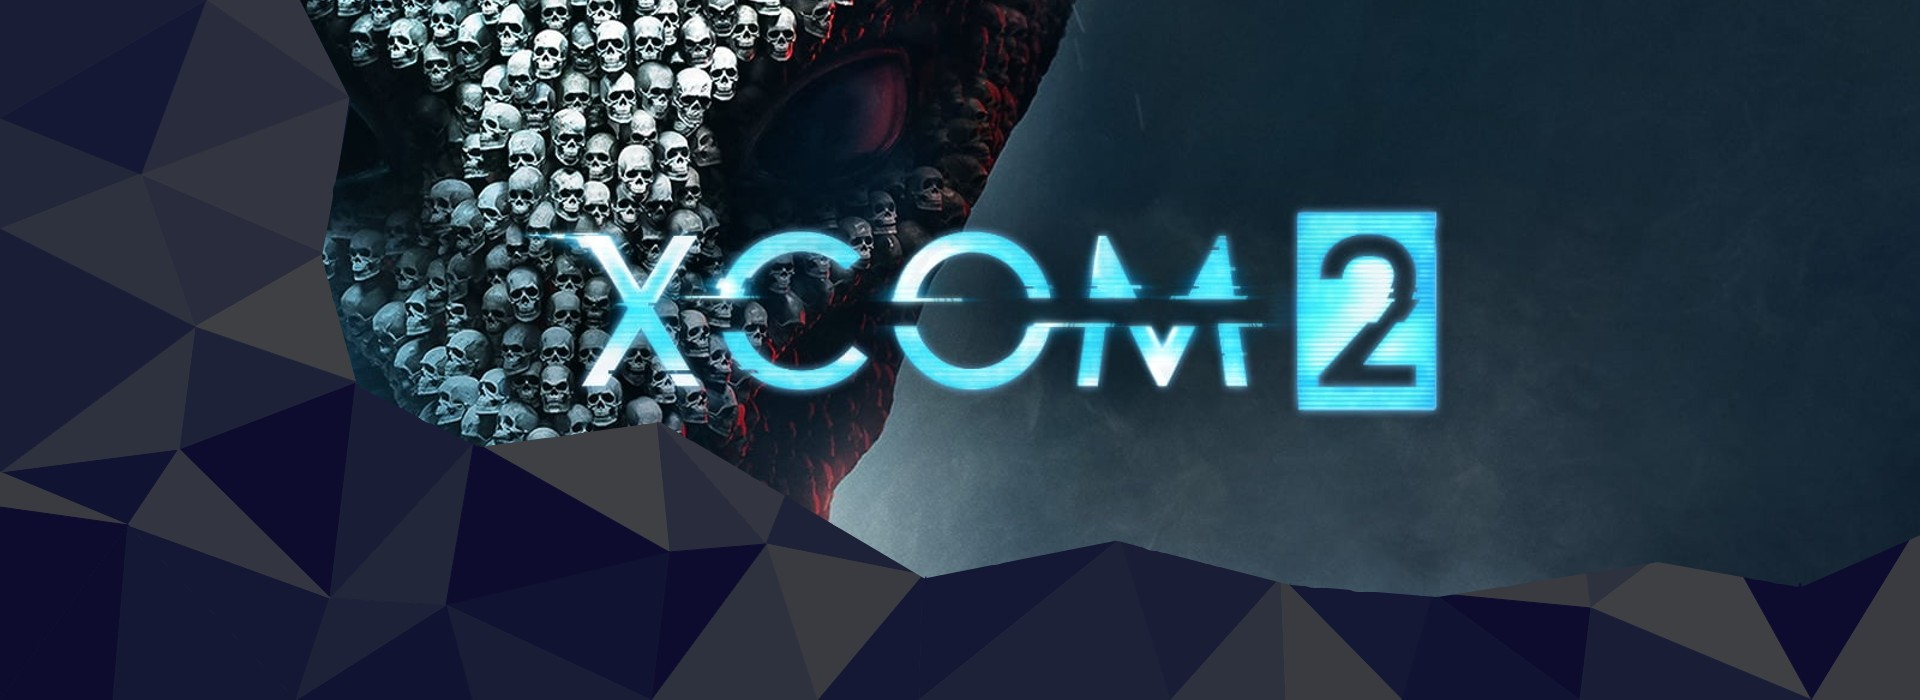
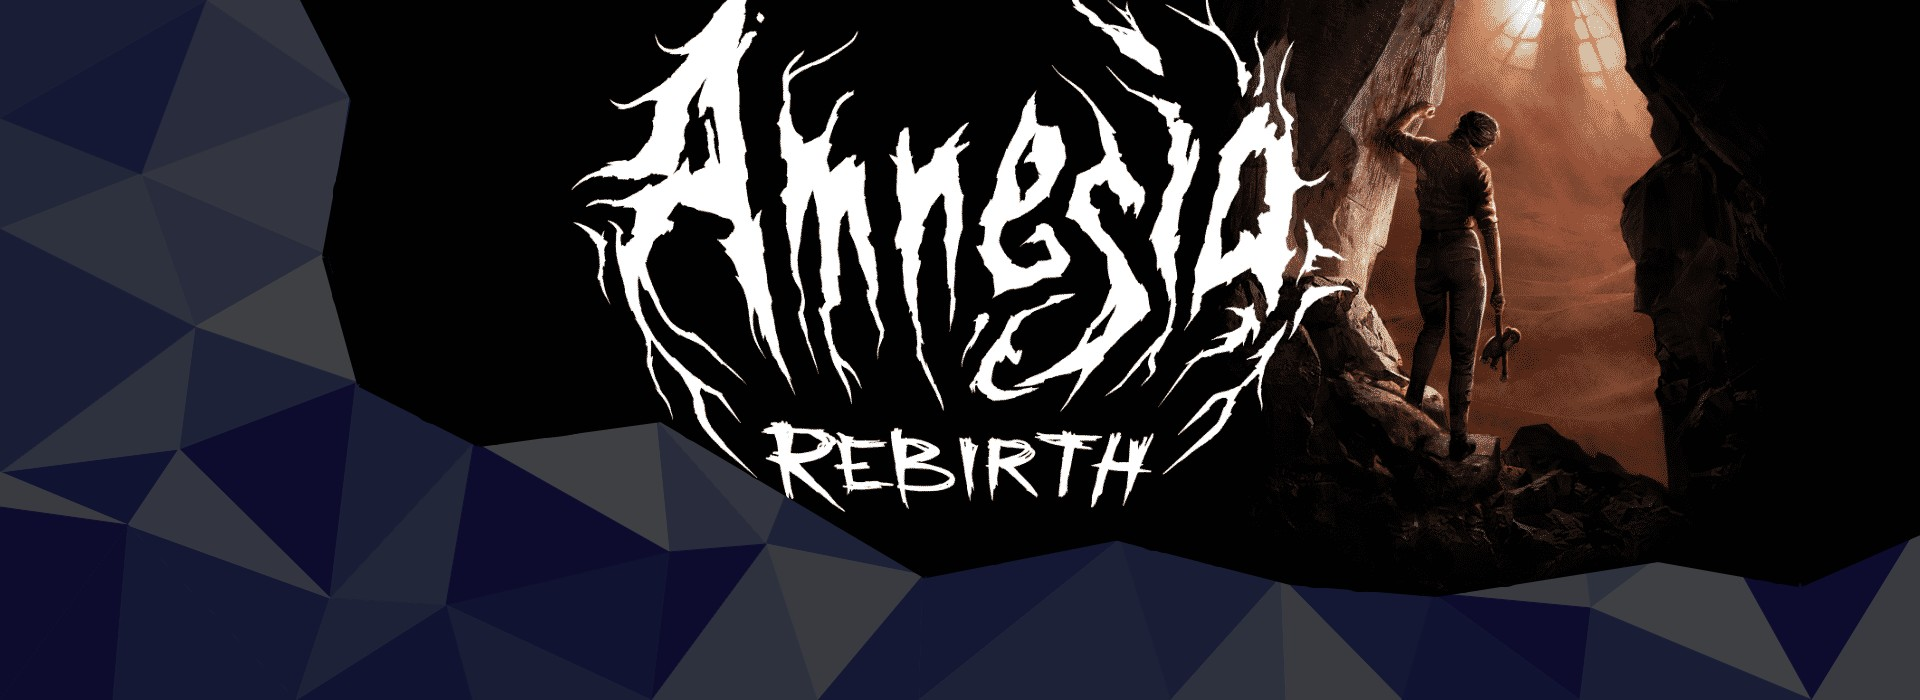
actualizacion 21/4

diff --git a/index.html b/index.html
@@ -61,14 +61,14 @@
                         <div class="carousel-caption d-md-block">
                             <h3 class="text-tipo2">Epic Games</h3>
                             <p class="text-tipo2">Descarga tu juego gratis de esta semana</p>
-                            <a href="https://store.epicgames.com/es-MX/p/xcom-2" target="_blank"><button class="boton">Consiguelo</button></a>
+                            <a href="https://store.epicgames.com/es-MX/p/amnesia-rebirth" target="_blank"><button class="boton">Consiguelo</button></a>
                         </div>
                     </div>
                     <div class="carousel-item mislider">
                         <img src="multimedia/images/slider/slider1.jpg" class="d-block w-100" alt="">
                         <div class="carousel-caption d-md-block">
-                            <h3 class="text-tipo2">Darksiders 3</h3>
-                            <p class="text-tipo2">Nuevos videos: Furia derrotando los pecados </p>
+                            <h3 class="text-tipo2">Hellblade Senua's Sacrifice</h3>
+                            <p class="text-tipo2">Nuevos videos: Senua en su locura</p>
                             <a href="pages/guias.html"><button class="boton">Ver videos</button></a>
                         </div>
                     </div>          
@@ -92,8 +92,8 @@
                         <img src="multimedia/images/slider/slider5.jpg" class="d-block w-100" alt="imagen carrusel">
                         <div class="carousel-caption d-md-block">
                             <h3 class="text-tipo2">Recomendacion</h3>
-                            <p class="text-tipo2">Call of Duty: Black Ops 3<br>67% off hasta el 21/4</p>
-                            <a href="https://store.steampowered.com/app/311210/Call_of_Duty_Black_Ops_III/" target="_blank"><button class="boton">Compralo</button></a>
+                            <p class="text-tipo2">The witcher 3: Wild hunt<br>80% off hasta el 2/5</p>
+                            <a href="https://store.steampowered.com/sub/124923/" target="_blank"><button class="boton">Compralo</button></a>
                         </div>
                     </div>
                 </div>
@@ -113,31 +113,31 @@
             <h2 class="sub_title text-tipo1">Ultimas noticias</h2>
             <div class="info_1 fondo">
                 <div>                
-                    <h3 class="texto_h3 titulo_info1">No man's sky: Outlaws</h3>
-                    <p class="texto_p parrafo_info1">Hello Games ha anunciado la 19° actualización gratuita para No Man's Sky, su ambicioso juego de exploración espacial al que no paran de añadir nuevo contenido, en Outlaws se han querido centrar en un nuevo sistema de forajidos, piratas espaciales, escuadrones, nuevas naves y mejoras en el combate espacial.</p>
+                    <h3 class="texto_h3 titulo_info1">Moto GP 22</h3>
+                    <p class="texto_p parrafo_info1">Este 21 de abril se lanza a la venta el que probablemente sea el mejor juego de conduccion de motos. Moto GP 22 se ha enfocado demasiado en el apartado grafico mostrando a los jugadores el mayor grado de realizmo posible. <br> Aqui te dejamos su trailer</p>
                 </div> 
                 <div> 
-                    <iframe width="560" height="315" src="https://www.youtube.com/embed/NHLQBc9u5RE" title="YouTube video player" frameborder="0" allow="accelerometer; autoplay; clipboard-write; encrypted-media; gyroscope; picture-in-picture" allowfullscreen></iframe>
+                    <iframe width="560" height="315" src="https://www.youtube.com/embed/kkami8prCjI" title="YouTube video player" frameborder="0" allow="accelerometer; autoplay; clipboard-write; encrypted-media; gyroscope; picture-in-picture" allowfullscreen></iframe>
                 </div> 
             </div>
 
             <div class="info_2 fondo">
                 <div class="video_2">
-                    <iframe width="560" height="315" src="https://www.youtube.com/embed/fRIIjV-oZTA" title="YouTube video player" frameborder="0" allow="accelerometer; autoplay; clipboard-write; encrypted-media; gyroscope; picture-in-picture" allowfullscreen></iframe>
+                    <iframe width="560" height="315" src="https://www.youtube.com/embed/RjwcbF_ohoE" title="YouTube video player" frameborder="0" allow="accelerometer; autoplay; clipboard-write; encrypted-media; gyroscope; picture-in-picture" allowfullscreen></iframe>
                 </div>
                 <div>
-                    <h3 class="texto_h3 titulo_info2">Capcom Fighting Collection</h3>
-                    <p class="texto_p parrafo_info2">Capcom Fighting Collection es una colección con 10 videojuegos de lucha clásicos de Capcom que se lanzará el 24 de junio para PC (Steam), PS4, Xbox One y Nintendo Switch permitiéndonos disfrutar de títulos como Street Fighter 2 o Darkstalkers.</p>  
+                    <h3 class="texto_h3 titulo_info2">Way of the hunter</h3>
+                    <p class="texto_p parrafo_info2">Si lo tuyo son los juegos de caceria no puedes perderte de este titulo en el cual puedes explorar vastos territorios de caza abiertos en América y Europa, experimenta armas realistas y descubre docenas de especies animales diferentes, solo o junto con un amigo.</p>  
                 </div>    
             </div>
 
             <div class="info_1 fondo">
                 <div>                
-                    <h3 class="texto_h3 titulo_info1">Teamfight Tactics</h3>
-                    <p class="texto_p parrafo_info1">Este 29 de abril llega el campeonato mundial de TFT y conocemos cual es el formato en el cual se llevara a cabo la mayor competencia de este gran juego de estrategias con un premio de u$s 300.000</p>
+                    <h3 class="texto_h3 titulo_info1">Sonic Origins</h3>
+                    <p class="texto_p parrafo_info1">Sonic Origins es anunciado oficialmente: el recopilatorio de las aventuras clásicas de Sonic llegará en junio. Se trata de la mejor forma de conocer las raíces de Sonic en el mundo de los videojuegos con las versiones remasterizadas de cuatro de sus primeros títulos: Sonic the Hedgehog, Sonic the Hedgehog 2, Sonic 3 & Knuckles y Sonic CD. Además, todos ellos ofrecerán la posibilidad de jugar como Sonic, Tails y Knuckles.</p>
                 </div> 
                 <div> 
-                    <iframe width="560" height="315" src="https://www.youtube.com/embed/_4ozeUbZSCM" title="YouTube video player" frameborder="0" allow="accelerometer; autoplay; clipboard-write; encrypted-media; gyroscope; picture-in-picture" allowfullscreen></iframe>
+                    <iframe width="560" height="315" src="https://www.youtube.com/embed/G5E6GC3ieM0" title="YouTube video player" frameborder="0" allow="accelerometer; autoplay; clipboard-write; encrypted-media; gyroscope; picture-in-picture" allowfullscreen></iframe>
                 </div> 
             </div>
         </section>

diff --git a/pages/guias.html b/pages/guias.html
@@ -50,15 +50,32 @@
         </div>
         <section class="guide">
             <div>
+                <h2 class="nombre_juego">Hellblade Senua's Sacrifice</h2>
+                <div class="guideGalery">
+                    <div>
+                        <h3 class="texto_h3">Senua se enfrenta a Surur</h3>
+                        <iframe width="460" height="275" src="https://www.youtube.com/embed/yIfUrRzM7vE" title="YouTube video player" frameborder="0" allow="accelerometer; autoplay; clipboard-write; encrypted-media; gyroscope; picture-in-picture" allowfullscreen></iframe>
+                    </div>
+                    <div>
+                        <h3 class="texto_h3">Senua se enfrenta a Valravn</h3>
+                        <iframe width="460" height="275" src="https://www.youtube.com/embed/faP8Rr1Y0Bo" title="YouTube video player" frameborder="0" allow="accelerometer; autoplay; clipboard-write; encrypted-media; gyroscope; picture-in-picture" allowfullscreen></iframe>
+                    </div>
+                    <div>
+                        <h3 class="texto_h3">Senua se enfrenta a Garm</h3>
+                        <iframe width="460" height="275" src="https://www.youtube.com/embed/0EM56of_NRs" title="YouTube video player" frameborder="0" allow="accelerometer; autoplay; clipboard-write; encrypted-media; gyroscope; picture-in-picture" allowfullscreen></iframe>
+                    </div>
+                </div>
+            </div>
+            <div>
                 <h2 class="nombre_juego">Darksiders 3</h2>
                 <div class="guideGalery">
                     <div>
-                        <h3 class="texto_h3">Furia enfrentandose a Envidia (1er encuentro)</h3>
-                        <iframe width="460" height="275" src="https://www.youtube.com/embed/MIXNXeQfb0g" title="YouTube video player" frameborder="0" allow="accelerometer; autoplay; clipboard-write; encrypted-media; gyroscope; picture-in-picture" allowfullscreen></iframe>
+                        <h3 class="texto_h3">Furia enfrentandose a Gula</h3>
+                        <iframe width="460" height="275" src="https://www.youtube.com/embed/_AV1EL82anI" title="YouTube video player" frameborder="0" allow="accelerometer; autoplay; clipboard-write; encrypted-media; gyroscope; picture-in-picture" allowfullscreen></iframe>
                     </div>
                     <div>
-                        <h3 class="texto_h3">Furia enfrentandose a Ira (1er encuentro)</h3>
-                        <iframe width="460" height="275" src="https://www.youtube.com/embed/EPv3jcpxw6c" title="YouTube video player" frameborder="0" allow="accelerometer; autoplay; clipboard-write; encrypted-media; gyroscope; picture-in-picture" allowfullscreen></iframe>
+                        <h3 class="texto_h3">Furia enfrentandose a Ira</h3>
+                        <iframe width="460" height="275" src="https://www.youtube.com/embed/7mg2Z4_u-TY" title="YouTube video player" frameborder="0" allow="accelerometer; autoplay; clipboard-write; encrypted-media; gyroscope; picture-in-picture" allowfullscreen></iframe>
                     </div>
                     <div>
                         <h3 class="texto_h3">Furia enfrentandose a Avaricia</h3>
